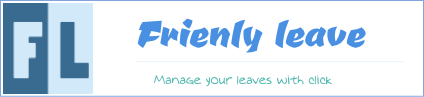
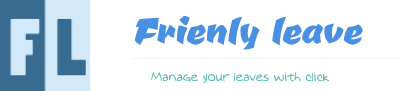
update readme

Changed region(s): [[0.0, 0.0, 1.0, 1.0], [0.2993, 0.1758, 0.9277, 0.5495], [0.3591, 0.7692, 0.8379, 0.9011]]

diff --git a/README.md b/README.md
@@ -1,2 +1,2 @@
-![](source/ico/app_poster.png)
-<img src="source/ico/app_poster.png" width = "200">
+
+<img src="source/ico/app_poster.png" width = "300">
